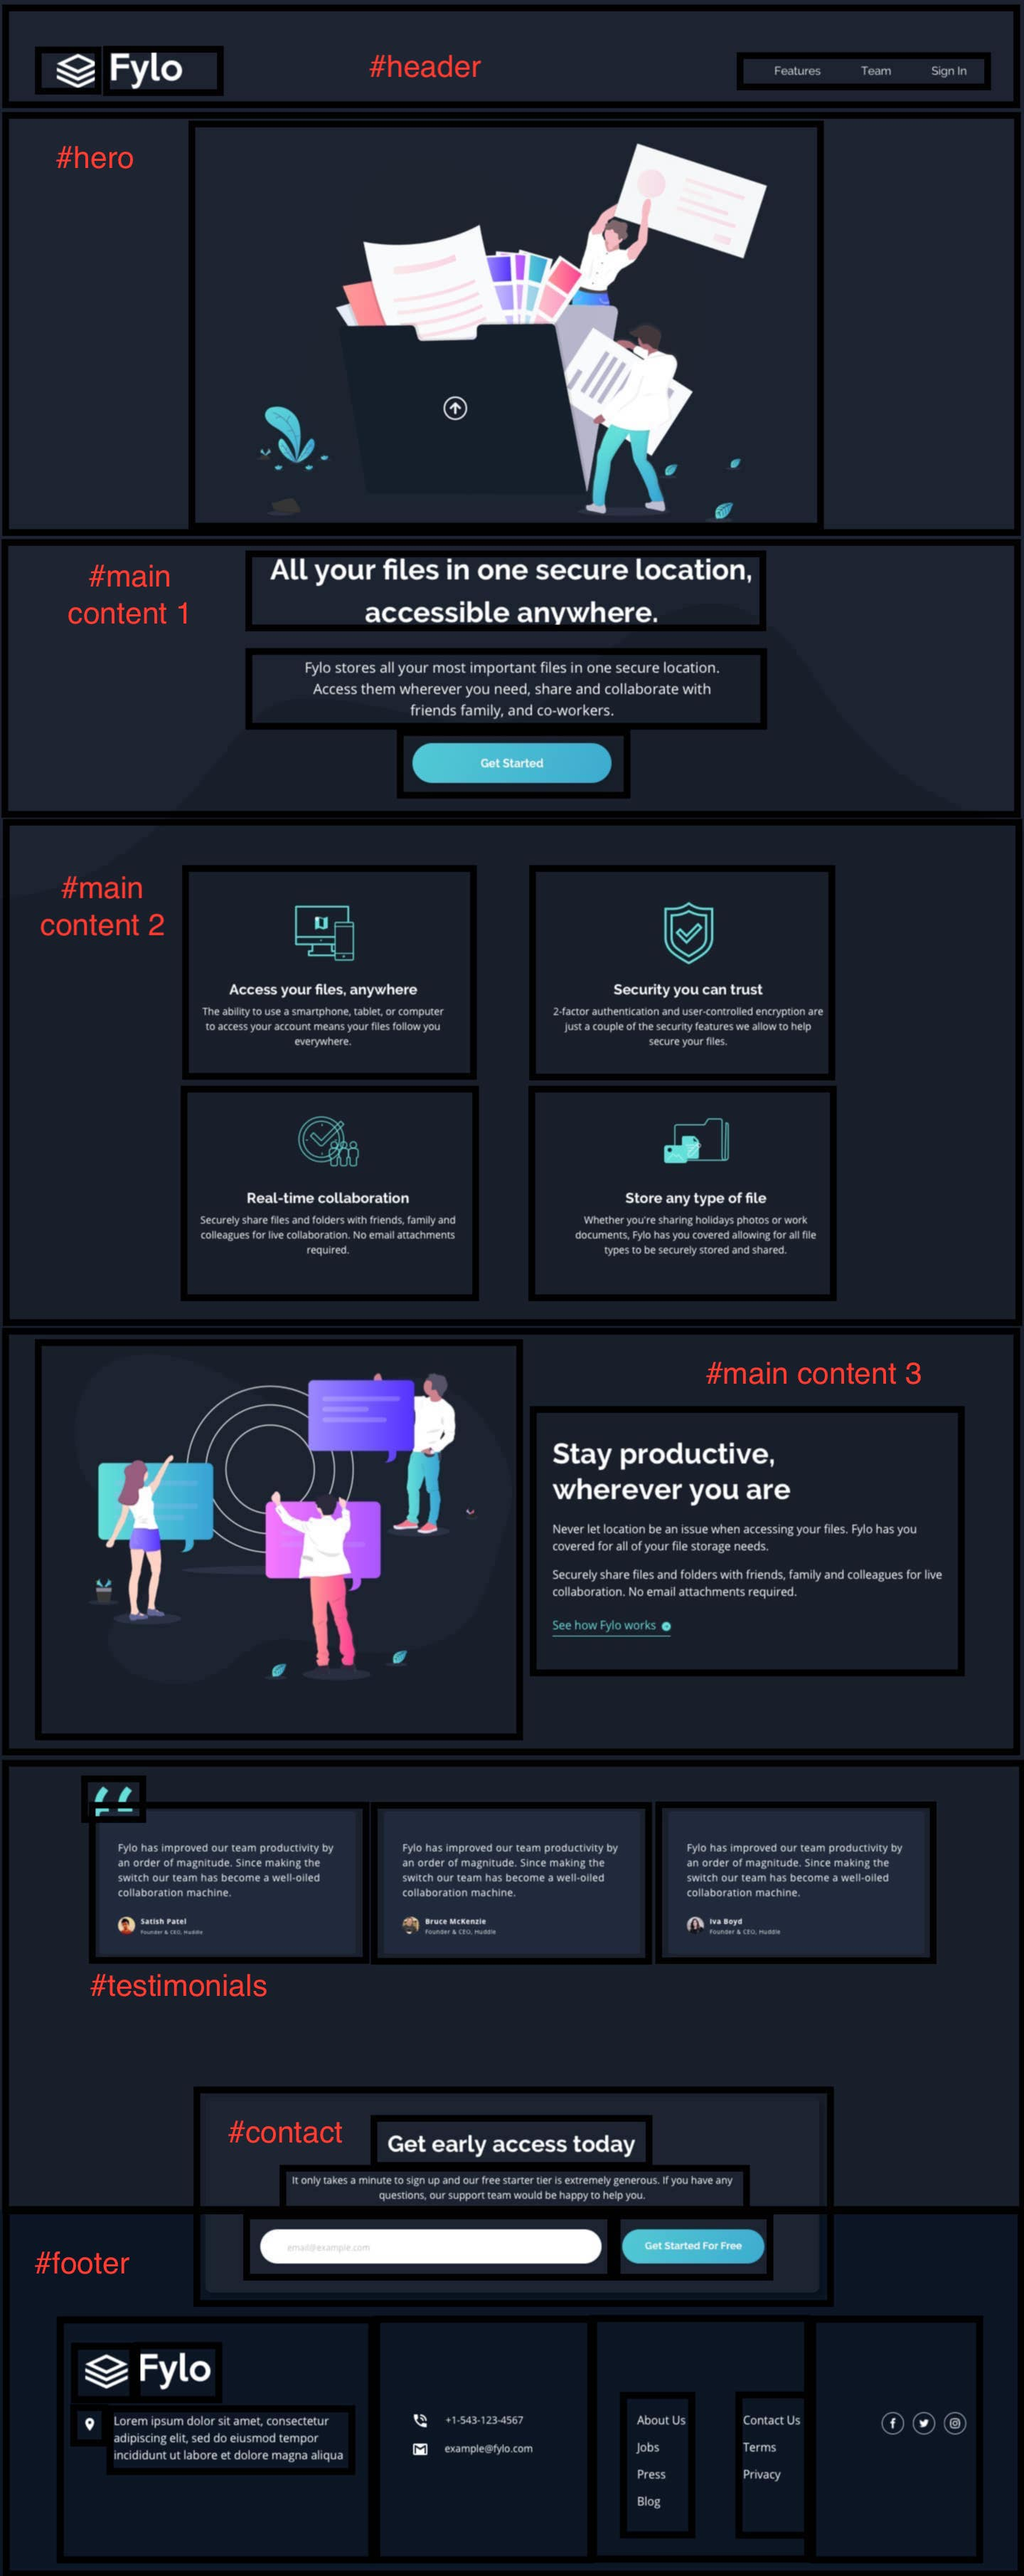
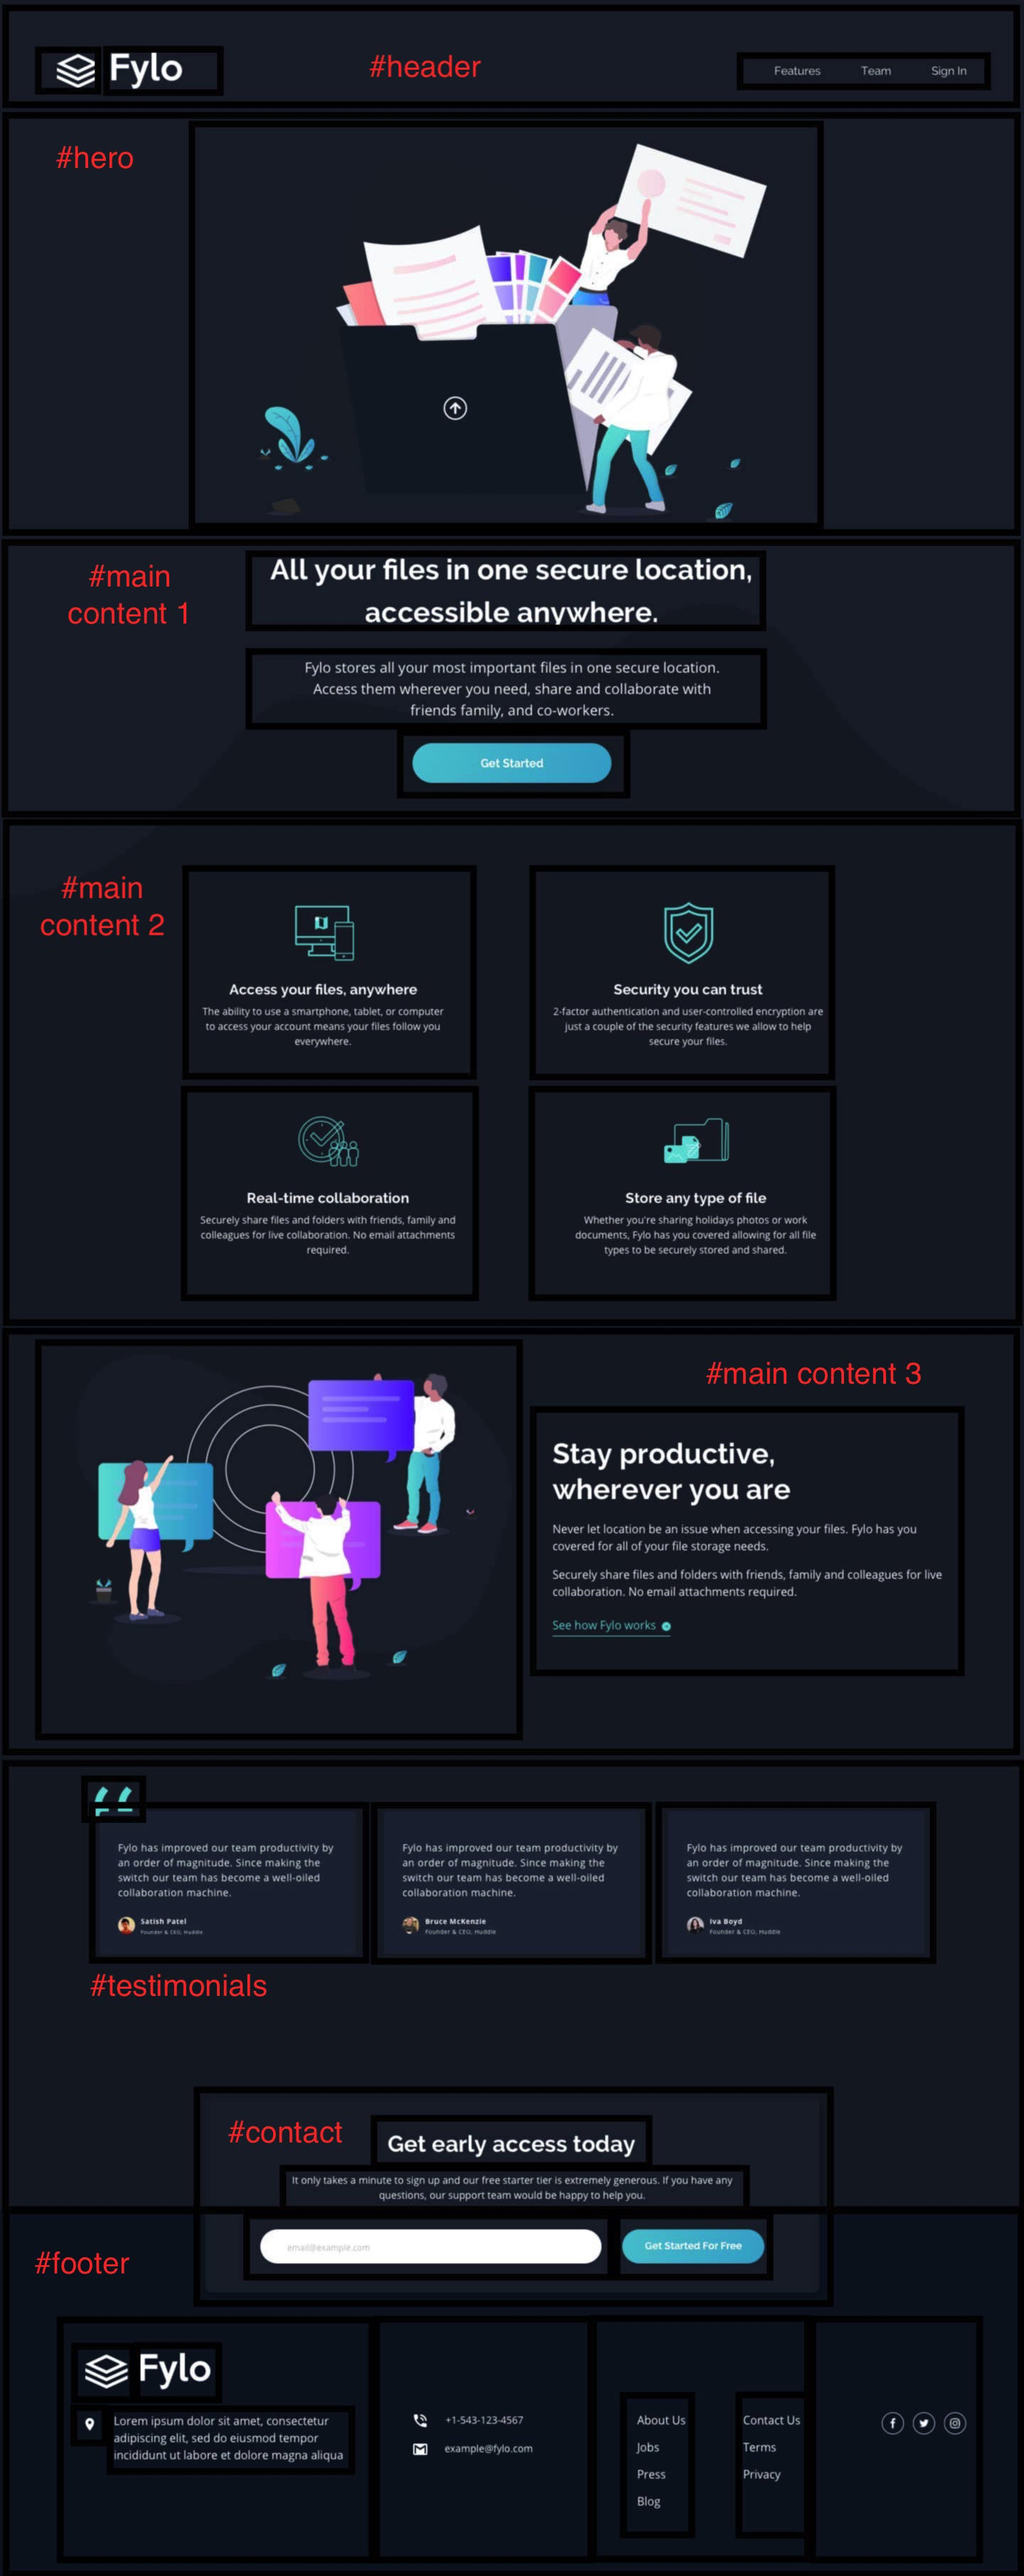
New README

diff --git a/css/mainstyle.css b/css/mainstyle.css
@@ -76,6 +76,7 @@ main {
     max-height: 550px;
 }
 #hero_photo {
+    display: block;
     padding: 20px;
 }
 
@@ -105,7 +106,6 @@ main {
 
 .content2 {
     display: flex;
-    flex-wrap: wrap;
     justify-content: space-between;
     align-items: center;
     height: 500px;
@@ -113,7 +113,10 @@ main {
 }
 
 .feature-card {
-    flex: 0 1 50%;
+    display: flex;
+    flex-wrap: wrap;
+    flex: 0 1 calc(25% - 1em);
+    
     
 }
 

diff --git a/READMEV2.md b/READMEV2.md
@@ -1,0 +1,2 @@
+# Project: Fylo landing page with dark theme and features grid 
+## Background: Landing Page was completed using CSS Grid and Flexbox. 
